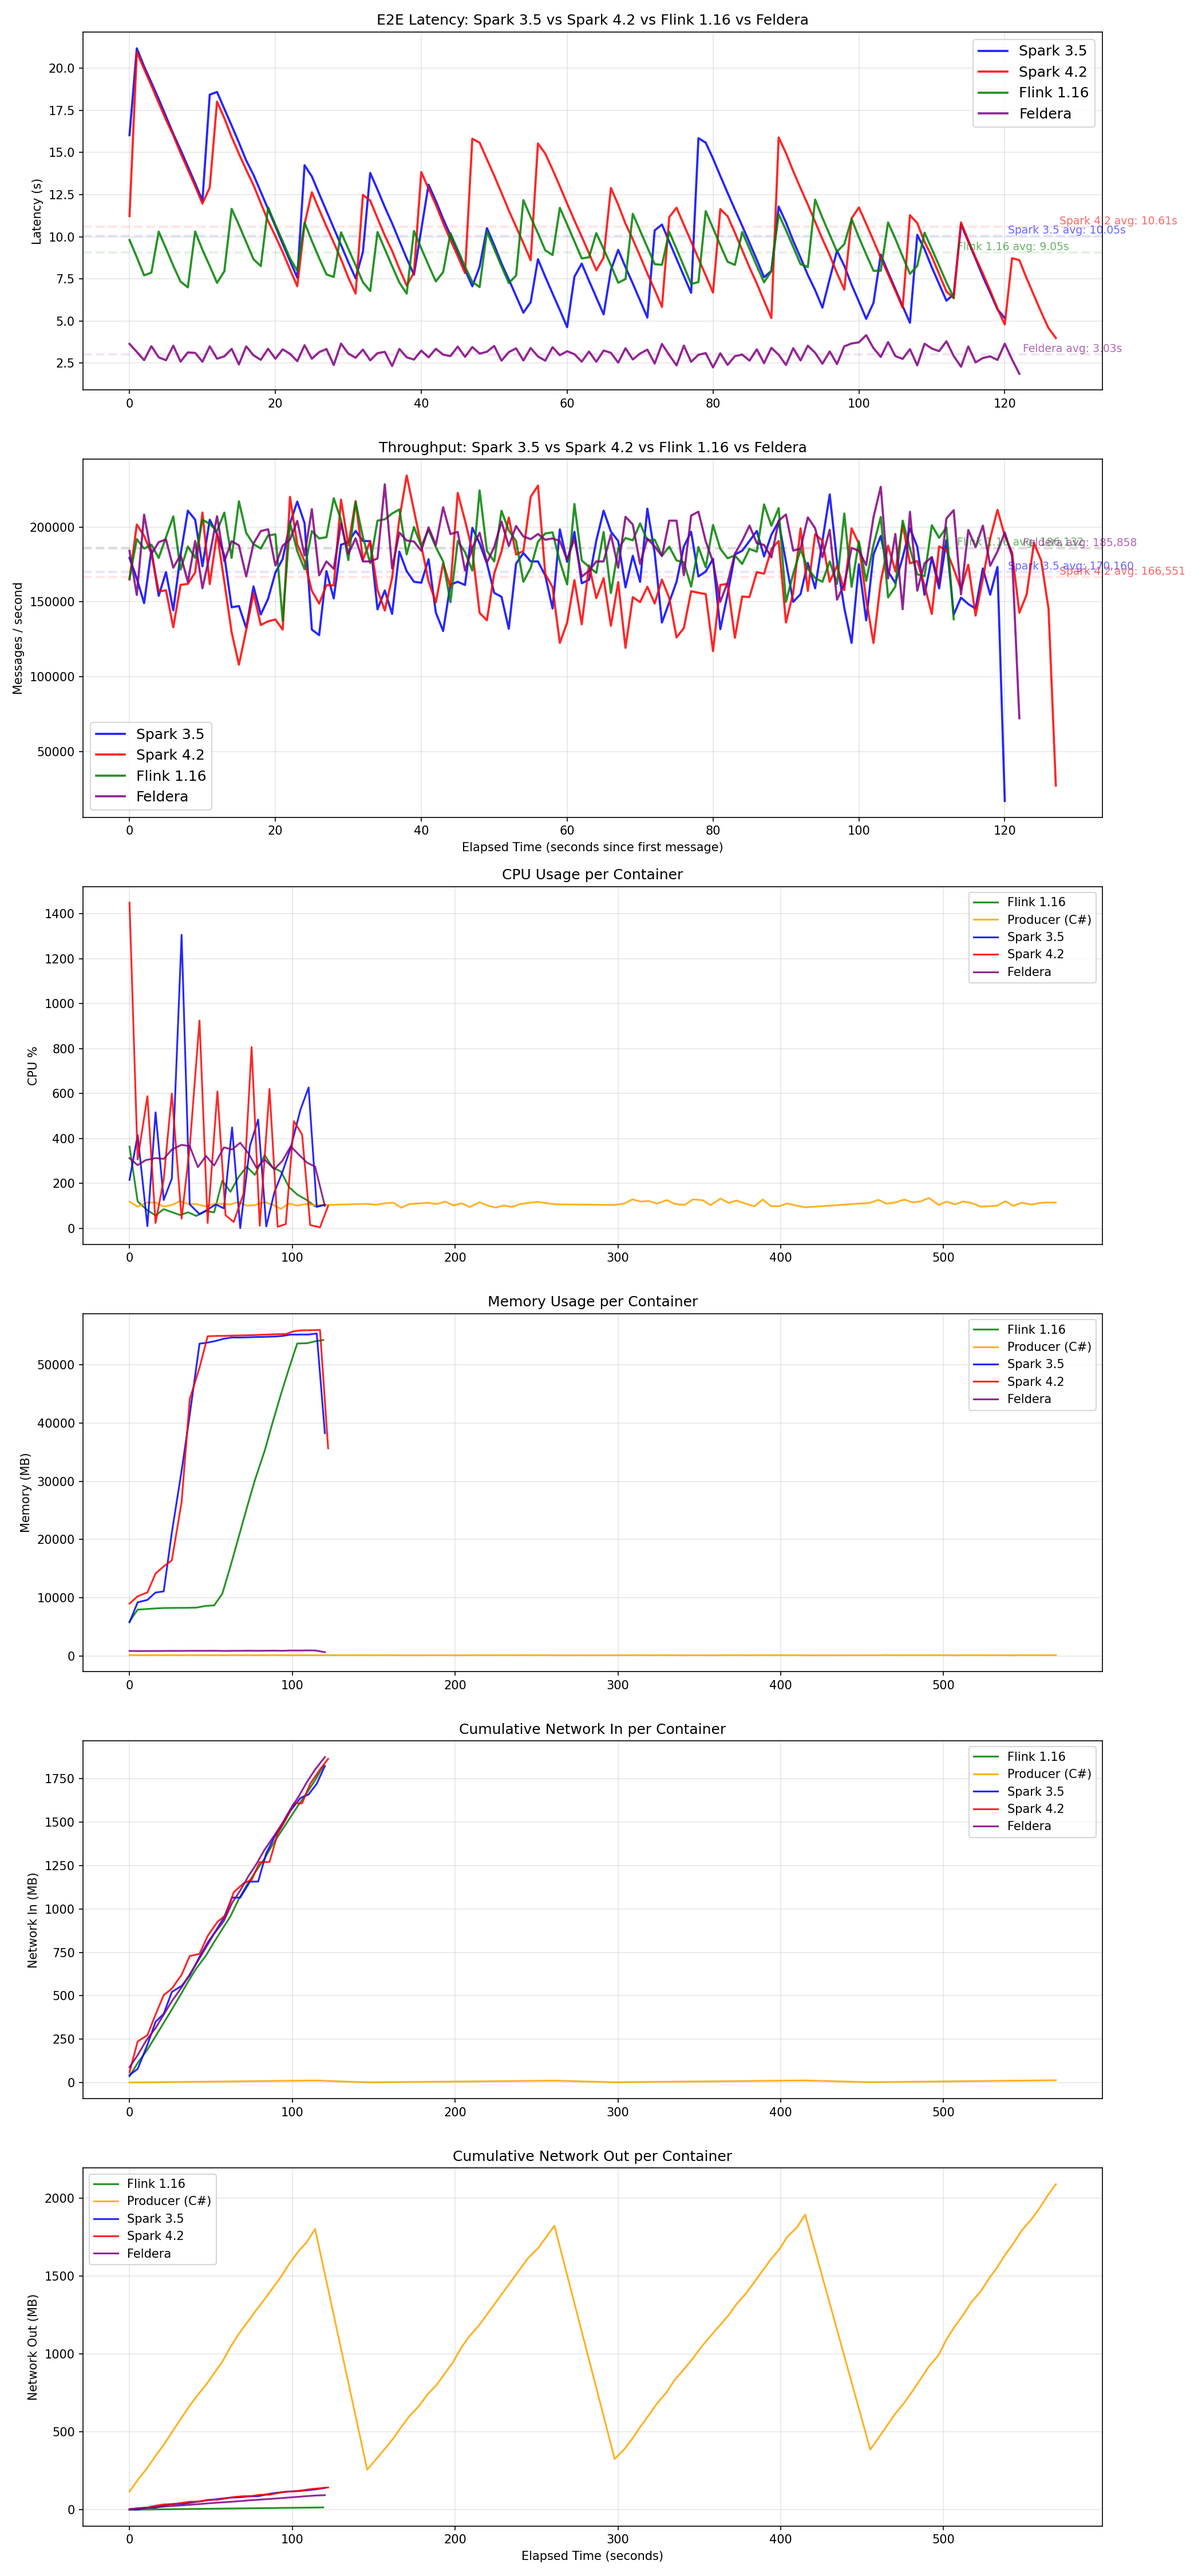
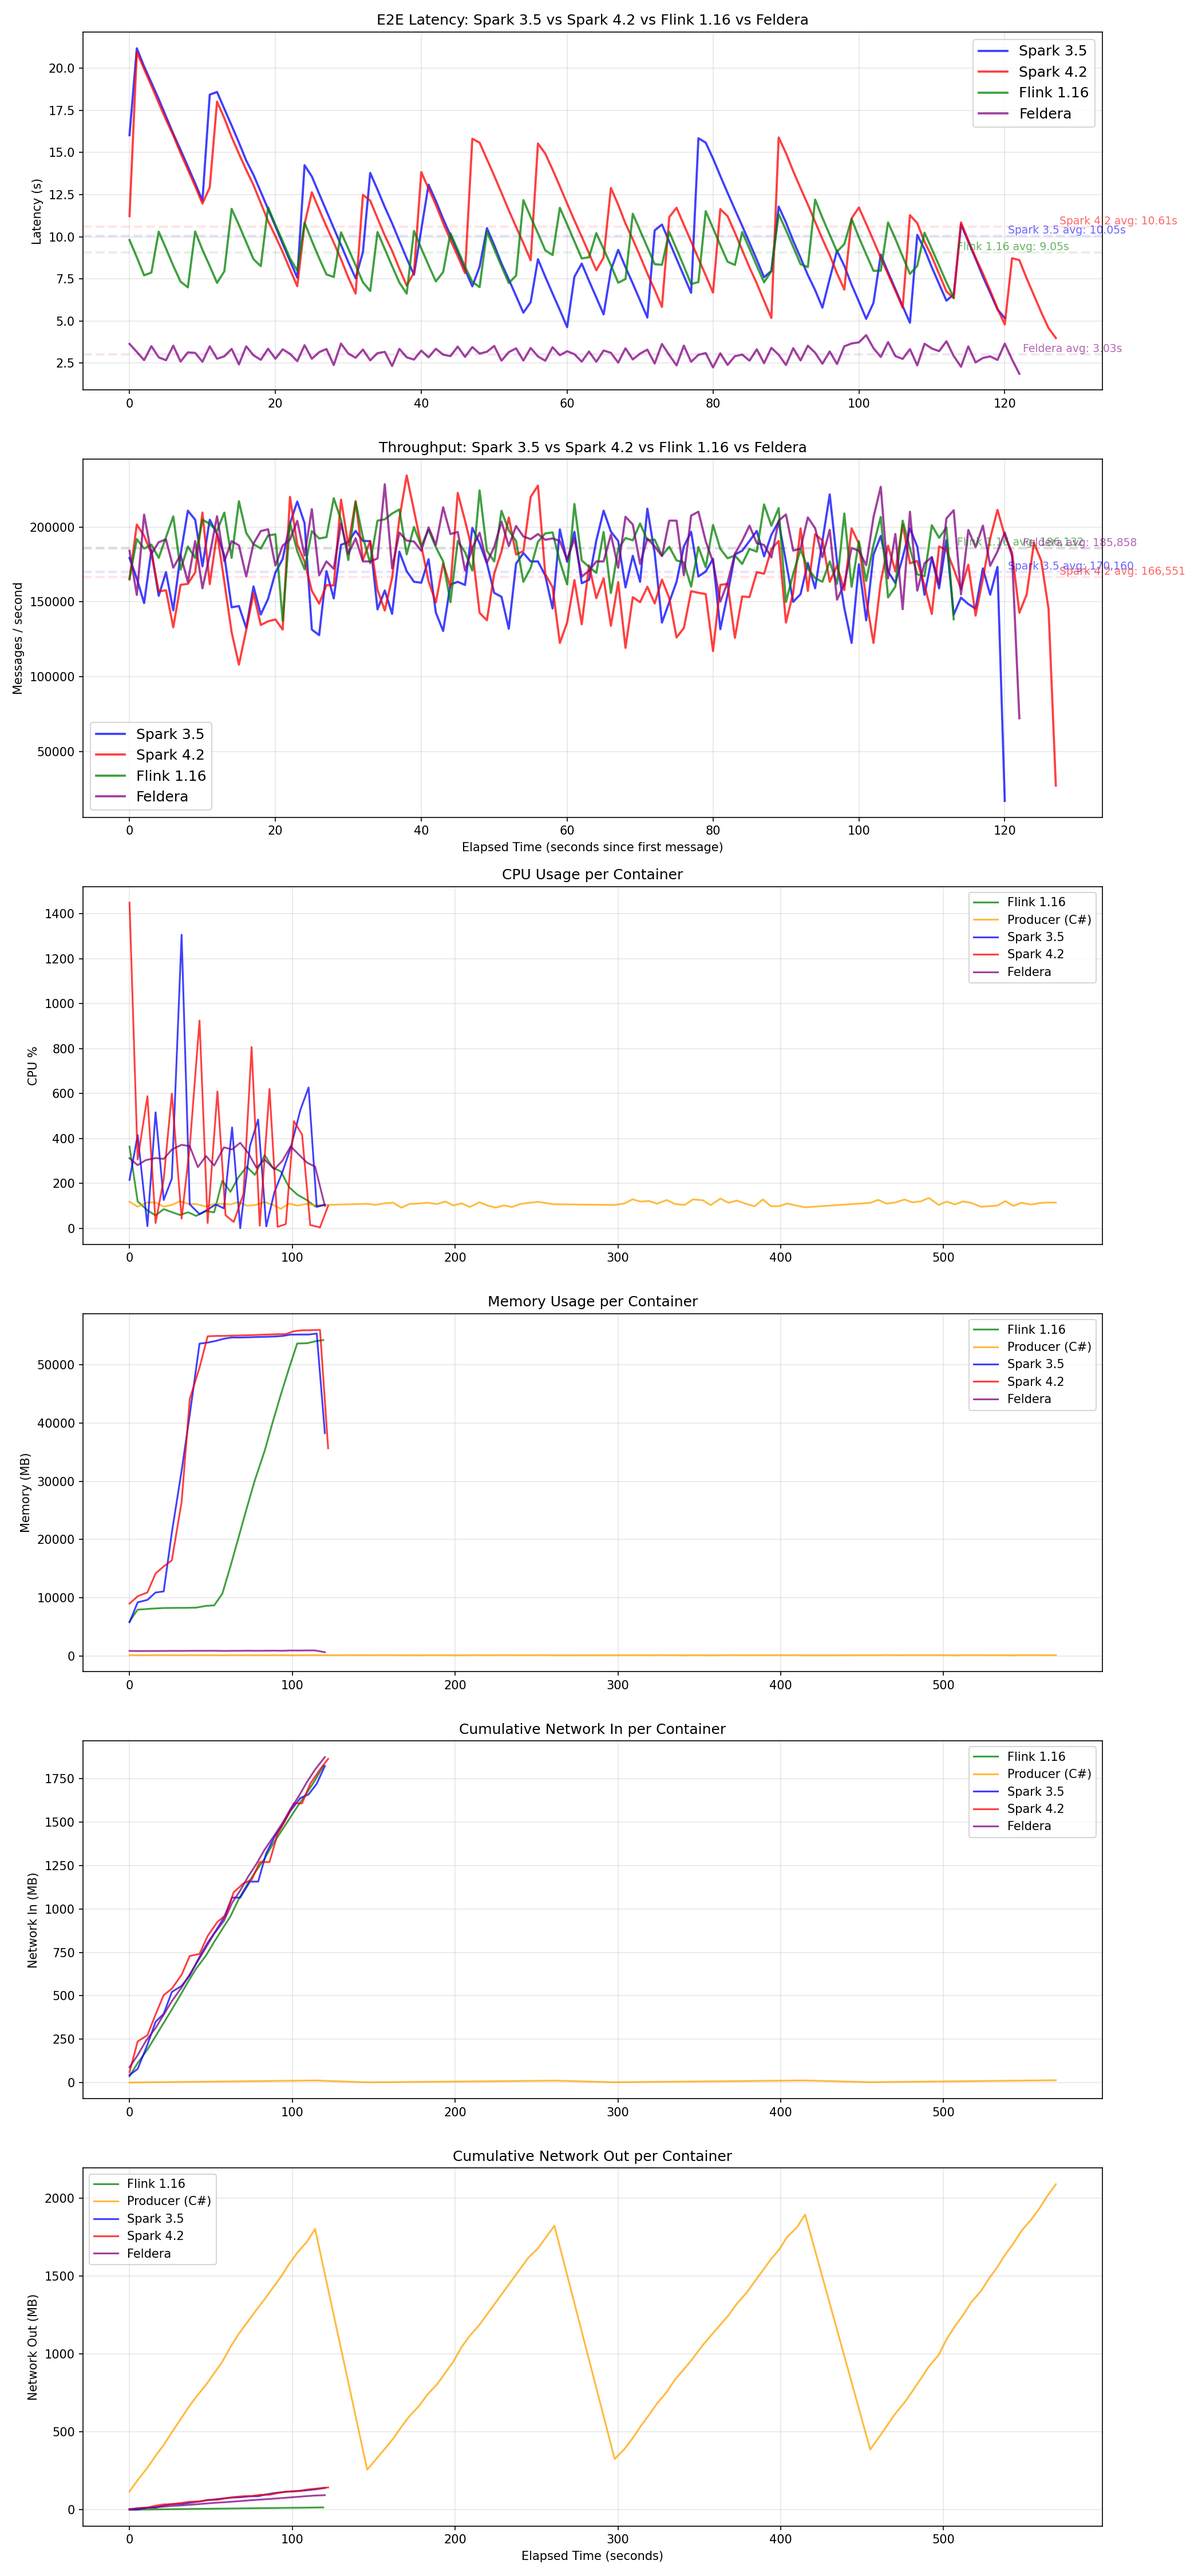
Charting improvements

diff --git a/src/containers/analytics-pyspark/analyze.py b/src/containers/analytics-pyspark/analyze.py
@@ -47,8 +47,8 @@ def create_spark_session():
 def build_commit_timestamp_map(spark, delta_path, storage_options):
     """Build a mapping from parquet file name to Delta commit timestamp.
 
-    Reads _delta_log/*.json directly via fsspec/adlfs (pure Python, no Spark),
-    parsing each JSONL log file for commitInfo.timestamp and add.path entries.
+    Reads _delta_log/*.json directly via fsspec/adlfs, parsing each JSONL log file 
+    for commitInfo.timestamp and add.path entries.
     """
     import json
     import fsspec
@@ -116,10 +116,6 @@ def load_timeseries(spark, delta_path, label, storage_options):
     except Exception as e:
         print(f"WARNING: Could not read {label} at {delta_path}: {e}")
         return None
-
-    # Filter for insert operations if an operation type column exists (e.g. IVM output)
-    if "__feldera_op" in [f.name for f in df.schema.fields]:
-        df = df.filter(F.col("__feldera_op") == "i")
 
     # Handle ts as either TIMESTAMP or VARCHAR
     ts_field = [f for f in df.schema.fields if f.name == "ts"]
@@ -233,13 +229,13 @@ def main():
         if series is None:
             continue
         label = series["version"].iloc[0]
-        ax_lat.plot(series["elapsed_s"], series["latency_s"], color=color, label=label, linewidth=1.8, alpha=0.85)
+        ax_lat.plot(series["elapsed_s"], series["latency_s"], color=color, label=label, linewidth=1.8, alpha=0.75)
         avg_lat = series["latency_s"].mean()
         ax_lat.axhline(y=avg_lat, color=color, linestyle="--", alpha=0.10, linewidth=2)
         ax_lat.text(series["elapsed_s"].iloc[-1], avg_lat, f" {label} avg: {avg_lat:.2f}s",
                     color=color, alpha=0.6, fontsize=9, va="bottom")
 
-        ax_thr.plot(series["elapsed_s"], series["msg_count"], color=color, label=label, linewidth=1.8, alpha=0.85)
+        ax_thr.plot(series["elapsed_s"], series["msg_count"], color=color, label=label, linewidth=1.8, alpha=0.75)
         avg_thr = series["msg_count"].mean()
         ax_thr.axhline(y=avg_thr, color=color, linestyle="--", alpha=0.10, linewidth=2)
         ax_thr.text(series["elapsed_s"].iloc[-1], avg_thr, f" {label} avg: {avg_thr:,.0f}",
@@ -263,10 +259,10 @@ def main():
             label = CONTAINER_LABELS.get(cname, cname)
             color = CONTAINER_COLORS.get(cname, "gray")
 
-            ax_cpu.plot(cdata["elapsed_s"], cdata["cpu_pct"], color=color, label=label, linewidth=1.5, alpha=0.85)
-            ax_mem.plot(cdata["elapsed_s"], cdata["mem_mb"], color=color, label=label, linewidth=1.5, alpha=0.85)
-            ax_net_in.plot(cdata["elapsed_s"], cdata["net_in_mb"], color=color, label=label, linewidth=1.5, alpha=0.85)
-            ax_net_out.plot(cdata["elapsed_s"], cdata["net_out_mb"], color=color, label=label, linewidth=1.5, alpha=0.85)
+            ax_cpu.plot(cdata["elapsed_s"], cdata["cpu_pct"], color=color, label=label, linewidth=1.5, alpha=0.75)
+            ax_mem.plot(cdata["elapsed_s"], cdata["mem_mb"], color=color, label=label, linewidth=1.5, alpha=0.75)
+            ax_net_in.plot(cdata["elapsed_s"], cdata["net_in_mb"], color=color, label=label, linewidth=1.5, alpha=0.75)
+            ax_net_out.plot(cdata["elapsed_s"], cdata["net_out_mb"], color=color, label=label, linewidth=1.5, alpha=0.75)
 
         ax_cpu.set_ylabel("CPU %")
         ax_cpu.set_title("CPU Usage per Container")
